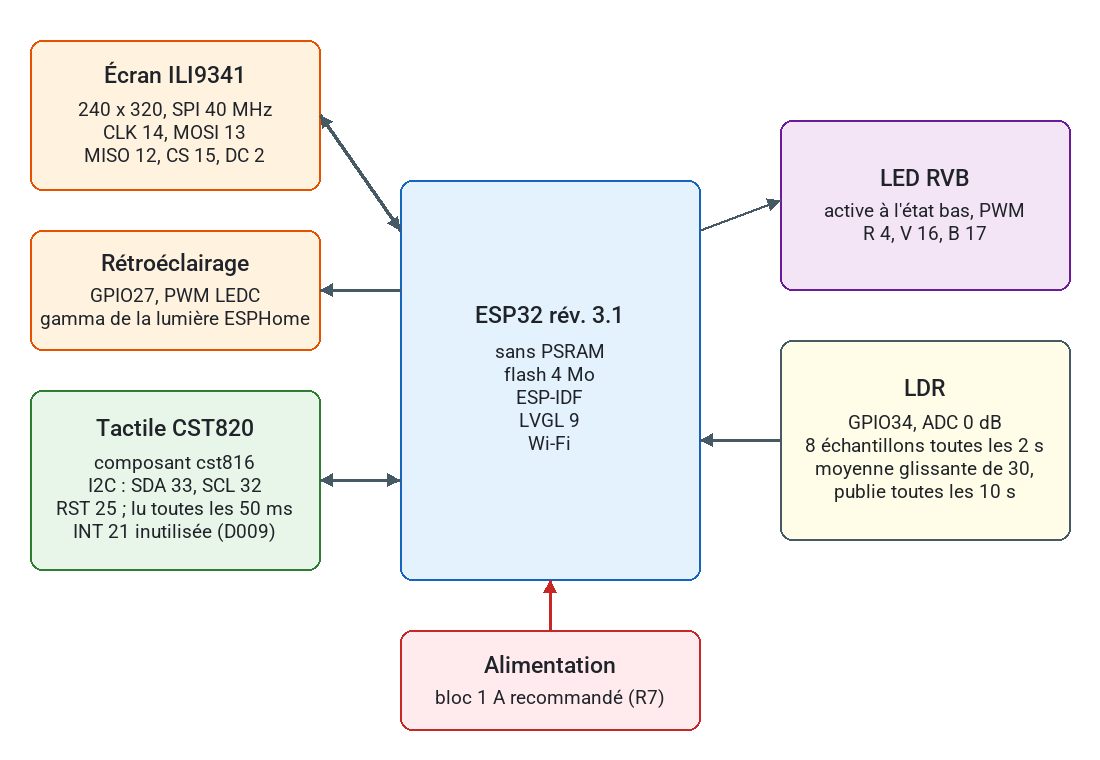
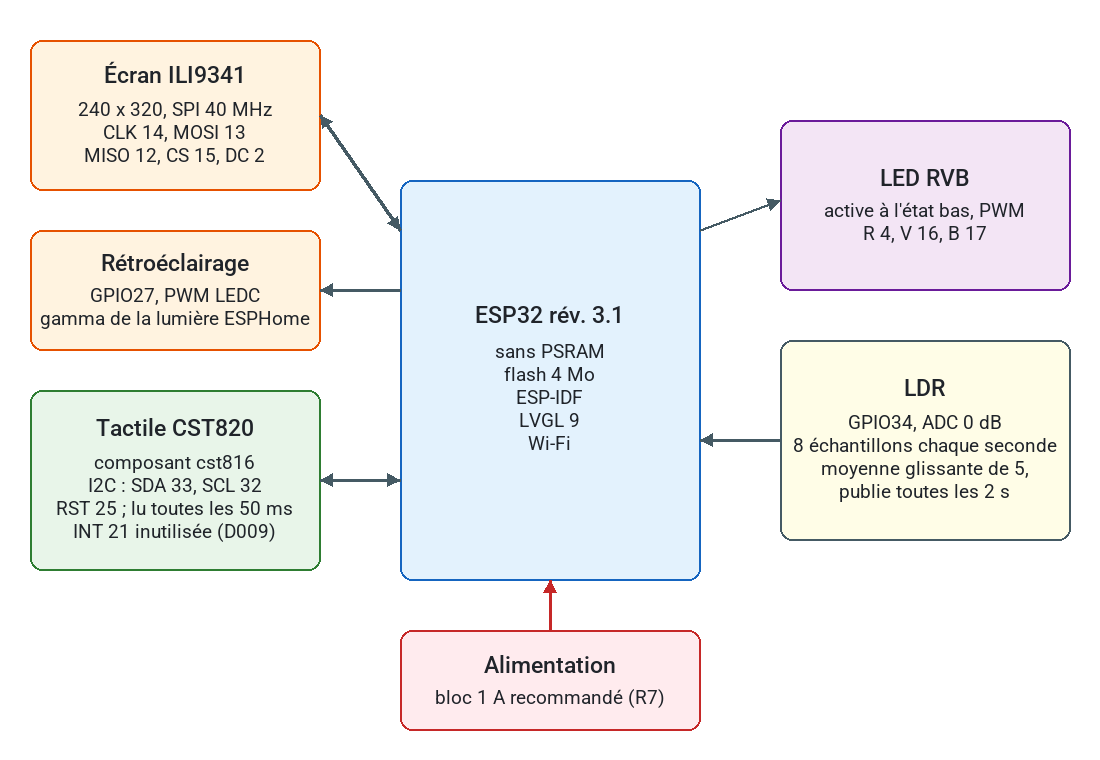
Reglages : cadenas pour un reglage impose, interrupteur a l'arret lisible ; menu sans tuile Accueil ; LDR moyennee sur 5 s
Retours du proprietaire apres le premier essai de la page Reglages (D031, D025, D023).

Changed region(s): [[0.7109, 0.575, 0.9582, 0.6658]]

diff --git a/tools/generer_schemas_architecture.py b/tools/generer_schemas_architecture.py
@@ -164,7 +164,7 @@ def materiel():
     s.fleche([(320, 480), (400, 480)], double=True)
     s.boite(780, 120, 290, 170, "LED RVB", "active à l'état bas, PWM\nR 4, V 16, B 17", VIOLET, B_VIOLET)
     s.fleche([(700, 230), (780, 200)])
-    s.boite(780, 340, 290, 200, "LDR", "GPIO34, ADC 0 dB\n8 échantillons toutes les 2 s\nmoyenne glissante de 30,\npublie toutes les 10 s", JAUNE)
+    s.boite(780, 340, 290, 200, "LDR", "GPIO34, ADC 0 dB\n8 échantillons chaque seconde\nmoyenne glissante de 5,\npublie toutes les 2 s", JAUNE)
     s.fleche([(780, 440), (700, 440)])
     s.boite(400, 630, 300, 100, "Alimentation", "bloc 1 A recommandé (R7)", ROUGE, B_ROUGE)
     s.fleche([(550, 630), (550, 580)], B_ROUGE)
@@ -229,7 +229,7 @@ def veille():
 
 def lumiere():
     s = S(1100, 650)
-    s.boite(30, 240, 220, 130, "LDR", "tension moyenne\nsur 1 min", JAUNE)
+    s.boite(30, 240, 220, 130, "LDR", "tension moyenne\nsur 5 s", JAUNE)
     s.boite(330, 240, 270, 130, "ldr_obscurite", "(V - 0,09) / (0,20 - 0,09)\nbornée de 0 à 1, 10 s\nsans mesure : 0", BLEU, B_BLEU)
     s.fleche([(250, 305), (330, 305)])
     s.boite(690, 60, 380, 170, "Rétroéclairage", "de 1,0 à 0,40 (gamma : environ 8 %)\nchange à partir de 5 points d'écart\ntransition de 2 s\nécran éteint : appliqué au réveil", ORANGE, B_ORANGE)

diff --git a/docs/technique/INDEX_IDS.md b/docs/technique/INDEX_IDS.md
@@ -31,7 +31,6 @@ Relancer le script après toute modification du YAML.
 | `btn_acc_pre_eco` | widget button | packages/pages/accueil.yaml | — |
 | `btn_acc_pre_frost` | widget button | packages/pages/accueil.yaml | — |
 | `btn_acc_pre_none` | widget button | packages/pages/accueil.yaml | — |
-| `btn_men_accueil` | widget button | packages/pages/menu.yaml | — |
 | `btn_men_apropos` | widget button | packages/pages/menu.yaml | — |
 | `btn_men_meteo` | widget button | packages/pages/menu.yaml | — |
 | `btn_men_planning` | widget button | packages/pages/menu.yaml | — |
@@ -52,6 +51,10 @@ Relancer le script après toute modification du YAML.
 | `ecran_intensite` | number (template) | packages/led_veille.yaml | packages/liaison_ha.yaml, packages/pages/reglages.yaml |
 | `ha_connecte_affiche` | globals | packages/lvgl.yaml | packages/led_veille.yaml, packages/pages/accueil.yaml, packages/pages/meteo.yaml, packages/pages/planning.yaml, packages/pages/scenarios.yaml |
 | `heure_ha` | time (homeassistant) | packages/pages/accueil.yaml | packages/pages/planning.yaml |
+| `ico_reg_ecran_intensite_verrou` | widget label | packages/pages/reglages.yaml | — |
+| `ico_reg_led_alerte_verrou` | widget label | packages/pages/reglages.yaml | — |
+| `ico_reg_led_intensite_verrou` | widget label | packages/pages/reglages.yaml | — |
+| `ico_reg_led_verrou` | widget label | packages/pages/reglages.yaml | — |
 | `ico_sce_1` | widget label | packages/pages/scenarios.yaml | — |
 | `ico_sce_2` | widget label | packages/pages/scenarios.yaml | — |
 | `ico_sce_3` | widget label | packages/pages/scenarios.yaml | — |
@@ -107,7 +110,6 @@ Relancer le script après toute modification du YAML.
 | `lbl_pla_resume` | widget label | packages/pages/planning.yaml | — |
 | `lbl_pla_titre` | widget label | packages/pages/planning.yaml | — |
 | `lbl_reg_ecran_intensite` | widget label | packages/pages/reglages.yaml | — |
-| `lbl_reg_impose` | widget label | packages/pages/reglages.yaml | — |
 | `lbl_reg_led_intensite` | widget label | packages/pages/reglages.yaml | — |
 | `lbl_sce_1` | widget label | packages/pages/scenarios.yaml | — |
 | `lbl_sce_2` | widget label | packages/pages/scenarios.yaml | — |
@@ -183,7 +185,8 @@ Relancer le script après toute modification du YAML.
 | `obj_pla_point_2` | widget obj | packages/pages/planning.yaml | — |
 | `obj_pla_point_3` | widget obj | packages/pages/planning.yaml | — |
 | `obj_pla_point_4` | widget obj | packages/pages/planning.yaml | — |
-| `page_accueil` | page LVGL | packages/pages/accueil.yaml | packages/led_veille.yaml, packages/lvgl.yaml, packages/pages/menu.yaml |
+| `obj_reg_impose` | widget obj | packages/pages/reglages.yaml | — |
+| `page_accueil` | page LVGL | packages/pages/accueil.yaml | packages/led_veille.yaml, packages/lvgl.yaml |
 | `page_apropos` | page LVGL | packages/lvgl.yaml | packages/pages/menu.yaml |
 | `page_menu` | page LVGL | packages/pages/menu.yaml | packages/lvgl.yaml |
 | `page_meteo` | page LVGL | packages/pages/meteo.yaml | packages/pages/menu.yaml |
@@ -192,7 +195,7 @@ Relancer le script après toute modification du YAML.
 | `page_scenarios` | page LVGL | packages/pages/scenarios.yaml | packages/pages/menu.yaml |
 | `planning_rafraichir` | script | packages/pages/planning.yaml | packages/liaison_ha.yaml |
 | `police_grande` | font | packages/pages/accueil.yaml | packages/pages/meteo.yaml |
-| `police_icones` | font | packages/lvgl.yaml | packages/message_accueil.yaml, packages/pages/accueil.yaml, packages/pages/menu.yaml |
+| `police_icones` | font | packages/lvgl.yaml | packages/message_accueil.yaml, packages/pages/accueil.yaml, packages/pages/menu.yaml, packages/pages/reglages.yaml |
 | `police_meteo` | font | packages/pages/meteo.yaml | — |
 | `police_scenarios` | font | packages/pages/scenarios.yaml | — |
 | `police_texte` | font | packages/lvgl.yaml | packages/message_accueil.yaml |

diff --git a/docs/codex/02_DECISIONS.md b/docs/codex/02_DECISIONS.md
@@ -386,7 +386,7 @@ qui cite la précédente.
     creux) au plafond ; un même facteur sur les trois canaux conserve les
     mélanges de D017 ;
   - plafond : 25 % pièce éclairée, 5 % pièce sombre, interpolé selon la LDR
-    (0,09 à 0,20 V, moyenne sur 1 min), multiplié par le réglage « Intensité
+    (0,09 à 0,20 V, moyenne sur 5 s depuis le 3 novembre 2026, D023), multiplié par le réglage « Intensité
     LED » (D027, 20 % par défaut : 5 % et 1 %) ; sans mesure, plafond de jour ;
   - révision du 2 novembre 2026 (retour du propriétaire : respiration trop
     haute) : le maximum devient l'ancien niveau bas (20 % de 25 % et de 5 %)
@@ -491,12 +491,18 @@ qui cite la précédente.
   choisis par l'agent, à ajuster et tester sur le module.
 - Décision :
   - la LDR donne une obscurité de 0 à 1 (0,09 à 0,20 V, D018), commune à la LED
-    et au rétroéclairage, recalculée toutes les 10 s sur la moyenne de 1 min ;
+    et au rétroéclairage, recalculée toutes les 10 s sur la moyenne de 1 min (2 s et 5 s depuis la
+    révision ci-dessous) ;
   - luminosité : 100 % pièce éclairée, 40 % pièce sombre (avant correction
     gamma), interpolée ; transition de 2 s, seulement à partir de 5 points d'écart ;
   - écran éteint : le niveau est appliqué au réveil, sans rallumer l'écran ;
   - sans mesure de la LDR : pleine luminosité, écran lisible. Aucune dépendance
     à Home Assistant.
+- Révision du 3 novembre 2026 (retour du propriétaire : l'écran baissait trop
+  lentement en éteignant une chambre) : moyenne sur 5 s publiée toutes les 2 s,
+  obscurité recalculée toutes les 2 s, transition de 1 s ; l'écart minimal de
+  5 points reste le seul rempart contre un écran qui varie sans cesse. Codé sur
+  `feature/reglages-ecran`, à valider sur le module.
 - Limite : si l'écran éclaire la LDR, baisser sa luminosité assombrit la mesure
   et accentue la baisse. Effet borné par `retro_nuit`, à vérifier au banc, comme
   la pièce sombre, jamais testée.
@@ -535,8 +541,9 @@ qui cite la précédente.
   comprennent pas un bouton qui ne réagit pas) : le bouton Accueil est masqué
   sur la page d'accueil ; seul Menu reste, à sa place.
 - Révision du 3 novembre 2026 (demande du propriétaire, même raison) : le bouton
-  Menu est masqué sur la page Menu ; seul Accueil reste, à sa place. Codé sur
-  `feature/reglages-ecran`, à valider sur le module.
+  Menu est masqué sur la page Menu ; seul Accueil reste, à sa place. Après essai,
+  la tuile Accueil du Menu, doublon de ce bouton, est retirée ; les cinq tuiles
+  restantes remontent. Codé sur `feature/reglages-ecran`, à valider sur le module.
 
 ## D026 — Icône et couleur des boutons de scénarios
 
@@ -665,8 +672,12 @@ qui cite la précédente.
     blueprint « module », « Ne pas imposer » par défaut, comme D027 ;
   - un changement à l'écran met à jour l'entité dans HA, et inversement : une
     seule valeur, écrite en flash seulement si elle change (G3) ;
-  - réglage imposé par le blueprint : grisé à l'écran, avec « imposé par HA » ;
-    le blueprint envoie désormais chaque réglage, avec la valeur `libre` quand il
-    ne l'impose pas (clés `led_*` et `ecran_intensite`).
+  - réglage imposé par le blueprint : cadenas devant la commande, qui ne réagit
+    pas, et cadenas suivi de « imposé par HA » en bas de la page ; le blueprint
+    envoie désormais chaque réglage, avec la valeur `libre` quand il ne l'impose
+    pas (clés `led_*` et `ecran_intensite`) ;
+  - révision après le premier essai (3 novembre 2026) : le gris seul se confondait
+    avec un interrupteur à l'arrêt, d'où le cadenas ; interrupteur à l'arrêt sur
+    fond sombre bordé, le bouton blanc sur gris clair étant peu lisible.
 - Conséquences : nouvelle entité exposée, à ne plus renommer (G10) ; surface
   inscrite au `08` ; mémoire à mesurer (G6).

diff --git a/docs/CAHIER_DE_TESTS.md b/docs/CAHIER_DE_TESTS.md
@@ -162,16 +162,17 @@ l'enregistrer.
 | N° | Action | Attendu | OK / KO |
 |---|---|---|---|
 | H1 | Toucher brièvement, comme sur un téléphone, les boutons de la barre et des tuiles | Chaque toucher bref est pris en compte, sans laisser le doigt | |
-| H2 | Ouvrir le Menu | Seul le bouton maison reste dans la barre ; une tuile **Réglages** à la place libre | |
+| H2 | Ouvrir le Menu | Seul le bouton maison reste dans la barre ; pas de tuile Accueil ; tuiles Météo, Planning, Scénarios, **Réglages**, À propos | |
 | H3 | Quitter le Menu par une tuile | Le bouton Menu revient sur la nouvelle page | |
-| H4 | Ouvrir Réglages, blueprint sur « Ne pas imposer » partout | 4 réglages actifs, mêmes valeurs que la page de l'appareil dans HA ; pas de « Grisé : imposé par HA » | |
+| H4 | Ouvrir Réglages, blueprint sur « Ne pas imposer » partout | 4 réglages actifs, mêmes valeurs que la page de l'appareil dans HA ; aucun cadenas ; interrupteur à l'arrêt lisible (fond sombre bordé, bouton blanc) | |
 | H5 | Basculer « LED » | La LED s'éteint ou reprend sa respiration ; « LED » change aussi sur la page de l'appareil | |
 | H6 | Glisser « Intensité LED », relâcher | Valeur affichée pendant le glissement, par pas de 5 ; LED et page de l'appareil suivent au relâchement | |
 | H7 | Basculer « Alerte LED » | Même valeur sur la page de l'appareil | |
 | H8 | Glisser « Intensité écran » jusqu'à 20 % | L'écran baisse aussitôt sans devenir illisible (plancher) | |
 | H9 | Changer « Intensité écran » sur la page de l'appareil | Le curseur de la page Réglages suit | |
 | H10 | Redémarrer le module | Les 4 réglages sont conservés | |
-| H11 | Dans le blueprint, imposer « Alerte LED », enregistrer | Sur l'écran, Alerte LED grisée et non modifiable, « Grisé : imposé par HA » affiché | |
-| H12 | Remettre « Ne pas imposer », enregistrer | Alerte LED de nouveau modifiable, mention disparue | |
+| H11 | Dans le blueprint, imposer « Alerte LED », enregistrer | Sur l'écran, cadenas devant Alerte LED, qui ne réagit plus ; « imposé par HA » avec un cadenas en bas | |
+| H12 | Remettre « Ne pas imposer », enregistrer | Alerte LED de nouveau modifiable, cadenas et mention disparus | |
+| H15 | Éteindre la lumière d'une pièce éclairée | L'écran baisse en moins de 10 s, sans clignoter ensuite | |
 | H13 | Rester 1 min sur Réglages sans toucher | Retour à l'accueil, puis écran éteint | |
 | H14 | HA coupé (comme A13), ouvrir Réglages | La page marche, réglages modifiables | |

diff --git a/docs/technique/hardware.md b/docs/technique/hardware.md
@@ -94,8 +94,8 @@ l'attend.
 |---|---|---|
 | `attenuation` | `0db` | Plage de mesure la plus fine de l'ESP32, jusqu'à environ 1 V. Les tensions relevées vont de 0,09 V (pièce éclairée) à 0,20 V (pièce sombre). |
 | `samples` | `8` | Chaque mesure est la moyenne de 8 lectures. |
-| `update_interval` | `2s` | Une mesure toutes les 2 s. |
-| `sliding_window_moving_average` | `window_size: 30`, `send_every: 5`, `send_first_at: 1` | Moyenne des 30 dernières mesures, soit 1 minute, publiée toutes les 5 mesures, soit 10 s. La première mesure est publiée dès le démarrage. Le signal est instable : la moyenne évite que la LED et l'écran varient sans cesse (D018). |
+| `update_interval` | `1s` | Une mesure par seconde. |
+| `sliding_window_moving_average` | `window_size: 5`, `send_every: 2`, `send_first_at: 1` | Moyenne des 5 dernières mesures, soit 5 s, publiée toutes les 2 mesures, soit 2 s. La première mesure est publiée dès le démarrage. Le signal est instable : la moyenne lisse les à-coups, et l'écart minimal de `led_veille.yaml` évite que l'écran varie sans cesse. Une minute auparavant : l'écran baissait trop lentement en éteignant une chambre (D023). |
 | `on_value` | `logger.log` | Journalise la tension, tag `hapanel.led`, niveau `DEBUG` : visible sur le banc seulement. |
 
 Les seuils jour et nuit (`ldr_tension_jour`, `ldr_tension_nuit`) ne sont pas ici : ils
@@ -149,7 +149,7 @@ effet pour un panneau alimenté en permanence. Cette dette est notée T1.
 | Tactile décalé ou inversé | Ajouter `transform` (`swap_xy`, `mirror_x`, `mirror_y`) ou `calibration` sous `tactile`. Vérifier avec le journal des touchers du banc. |
 | Couleurs de l'écran fausses | Options `invert_colors` ou `color_order` sous `ecran`. |
 | LDR trop réactive ou trop lente | `window_size` (durée de la moyenne) et `send_every` (fréquence). Les seuils sont dans `led_veille.yaml`. |
-| Exposer la LDR à Home Assistant | Lui donner un `name`. Une entité mise à jour toutes les 10 s : inutile en temps normal. |
+| Exposer la LDR à Home Assistant | Lui donner un `name`. Une entité mise à jour toutes les 2 s : inutile en temps normal, et chargerait l'historique de HA. |
 
 **Pièges :**
 - Ne déclarer une broche ou un bus dans aucun autre fichier (G2) : utiliser `!extend`

diff --git a/docs/CONFIGURATION.md b/docs/CONFIGURATION.md
@@ -140,8 +140,9 @@ désactivée, une anomalie ne se voit plus que sur l'écran.
 La section **LED et écran** du blueprint, repliée, propose les mêmes réglages, sur
 « Ne pas imposer » par défaut. Une valeur choisie dans le blueprint est envoyée au
 module à la connexion et toutes les 5 minutes : elle **l'emporte** sur la page de
-l'appareil, où un changement est remplacé sous 5 minutes, et elle apparaît **grisée**
-sur la page Réglages de l'écran, avec « Grisé : imposé par HA ». Pour régler depuis
+l'appareil, où un changement est remplacé sous 5 minutes. Sur la page Réglages de
+l'écran, elle porte un **cadenas** et ne réagit pas ; un cadenas suivi de « imposé
+par HA » le rappelle en bas de la page. Pour régler depuis
 la page de l'appareil ou depuis l'écran, laissez « Ne pas imposer ».
 
 Après une mise à jour du module qui ajoute « Intensité écran », **réimportez le
